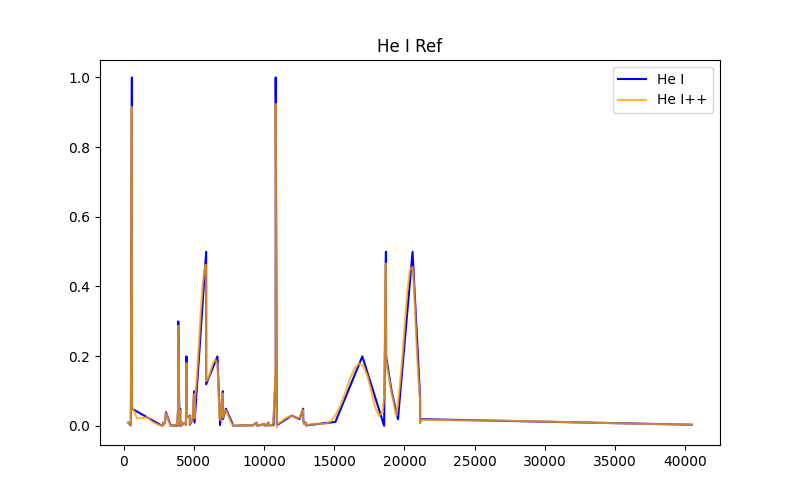
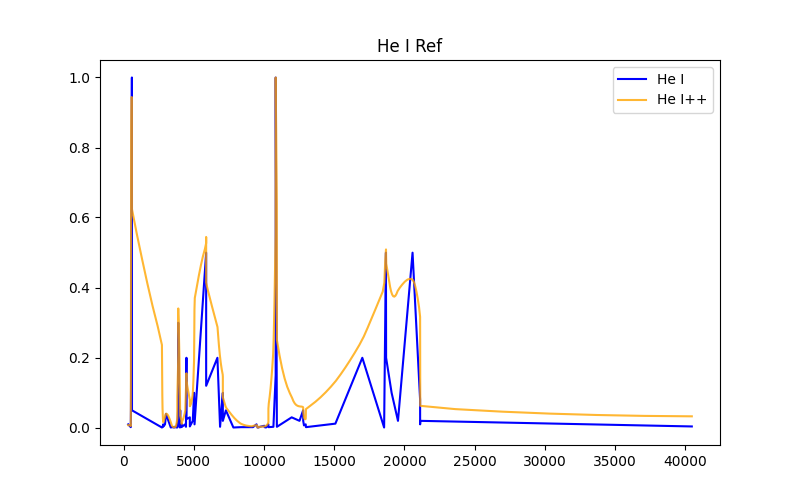
Tabajando en el particionado de lamparas

diff --git a/DTW.py b/DTW.py
@@ -1,79 +1,17 @@
 from NIST_Table_Interactor import NIST_Table_Interactor
 
-from astropy.io import fits
 import os
-from enum import Enum
+
 
 #from fastdtw import fastdtw
 #from scipy.spatial.distance import euclidean
 import matplotlib.pyplot as plt
 import numpy as np
-from scipy.ndimage import gaussian_filter1d
-from scipy.signal import savgol_filter
 
-def getfileData(filepath):    
-    hdul = fits.open(filepath) 
-    if('WOBJ' in filepath):
-        headers = hdul[0].header
-        data = hdul[0].data[0][0]
-    else:
-        headers = hdul[0].header
-        data = hdul[0].data
-    return data
+from utils import dp, getfileData, Processor
 
-def dp(dist_mat):
-    """
-    Find minimum-cost path through matrix `dist_mat` using dynamic programming.
+processor = Processor()
 
-    The cost of a path is defined as the sum of the matrix entries on that
-    path. See the following for details of the algorithm:
-
-    - http://en.wikipedia.org/wiki/Dynamic_time_warping
-    - https://www.ee.columbia.edu/~dpwe/resources/matlab/dtw/dp.m
-
-    The notation in the first reference was followed, while Dan Ellis's code
-    (second reference) was used to check for correctness. Returns a list of
-    path indices and the cost matrix.
-    """
-    N, M = dist_mat.shape
-    # Initialize the cost matrix
-    cost_mat = np.zeros((N + 1, M + 1))
-    for i in range(1, N + 1):
-        cost_mat[i, 0] = np.inf
-    for i in range(1, M + 1):
-        cost_mat[0, i] = np.inf
-    # Fill the cost matrix while keeping traceback information
-    traceback_mat = np.zeros((N, M))
-    for i in range(N):
-        for j in range(M):
-            penalty = [
-                cost_mat[i, j],      # match (0)
-                cost_mat[i, j + 1],  # insertion (1)
-                cost_mat[i + 1, j]]  # deletion (2)
-            i_penalty = np.argmin(penalty)
-            cost_mat[i + 1, j + 1] = dist_mat[i, j] + penalty[i_penalty]
-            traceback_mat[i, j] = i_penalty
-    # Traceback from bottom right
-    i = N - 1
-    j = M - 1
-    path = [(i, j)]
-    while i > 0 or j > 0:
-        tb_type = traceback_mat[i, j]
-        if tb_type == 0:
-            # Match
-            i = i - 1
-            j = j - 1
-        elif tb_type == 1:
-            # Insertion
-            i = i - 1
-        elif tb_type == 2:
-            # Deletion
-            j = j - 1
-        path.append((i, j))
-    # Strip infinity edges from cost_mat before returning
-    cost_mat = cost_mat[1:, 1:]
-    return (path[::-1], cost_mat)
-    
 # Datos del espectro a utilizar
 script_dir = os.path.dirname(os.path.abspath(__file__))
 filepath = os.path.join(script_dir, "EFBTCOMP31.fits")
@@ -86,6 +24,7 @@ y1=spectral_data
 min_y1 = np.min(y1)
 max_y1 = np.max(y1)
 nor_y1 = (y1 - min_y1) / (max_y1 - min_y1)
+#nor_y1 = processor.normalize_min_max(y1)
 
 # Datos de picos del NIST
 #csv_filename = ".\\Tabla(NIST)_Int_Long_Mat_Ref.csv"
@@ -98,34 +37,29 @@ filter = "He I"
 df = nisttr.get_dataframe(filter=filter)
 #df = nisttr.get_dataframe()
 
-class Processor:
-    class FuntionType(Enum):
-        LINEAL = "LINEAL"
-        GAUSSIAN = "GAUSSIAN"
-        SG = "SG"
-    def get_procesed(reference, target, tipe = [FuntionType.LINEAL]):
-        x2_equalized_lineal = np.interp(np.linspace(0, 1, len(x1)), np.linspace(0, 1, len(x2)), x2)
-
-
-SIGMA = 7
+SIGMA = 1
 x2 = df['Wavelength(Ams)'].tolist()
-x2_equalized_lineal = np.interp(np.linspace(0, 1, len(x1)), np.linspace(0, 1, len(x2)), x2)
 y2 = df['Intensity'].tolist()
-y2_equalized_lineal = np.interp(np.linspace(0, 1, len(y1)), np.linspace(0, 1, len(y2)), y2)
-y2_equalized_gaussian = gaussian_filter1d(y2_equalized_lineal, sigma=SIGMA)
-y2_equalized_SG = savgol_filter(y2_equalized_lineal, window_length=10, polyorder=4)
+x2_equalized_lineal = processor.equalized_and_smooth(reference=x1, target=x2, 
+                                            function=Processor.FuntionType.LINEAL)
+y2_equalized_lineal = processor.equalized_and_smooth(reference=y1, target=y2, 
+                                            function=Processor.FuntionType.LINEAL)
+y2_equalized_gaussian = processor.equalized_and_smooth(reference=y1, target=y2, 
+                                                       function=Processor.FuntionType.GAUSSIAN, 
+                                                       sigma=SIGMA)
+y2_equalized_SG = processor.equalized_and_smooth(reference=y1, target=y2, 
+                                                 function=Processor.FuntionType.SG, 
+                                                 window_length=10, polyorder=4)
 
-min_y2 = np.min(y2)
-max_y2 = np.max(y2)
-nor_y2 = (y2 - min_y2) / (max_y2 - min_y2)
-nor_y2_equalized_lineal = (y2_equalized_lineal - min_y2) / (max_y2 - min_y2)
-nor_y2_equalized_gaussian = (y2_equalized_gaussian - min_y2) / (max_y2 - min_y2)
-nor_y2_equalized_SG = (y2_equalized_SG - min_y2) / (max_y2 - min_y2)
+nor_y2, min_y2, max_y2 = processor.normalize_min_max(y2)
+nor_y2_equalized_lineal, _, _ = processor.normalize_min_max(y2_equalized_lineal)
+nor_y2_equalized_gaussian, _, _ = processor.normalize_min_max(y2_equalized_gaussian)
+nor_y2_equalized_SG, _, _ = processor.normalize_min_max(y2_equalized_SG)
 
 plt.figure(figsize=(8, 5))
 plt.plot(x2, nor_y2, color="blue", label=f"{filter}")
 #plt.plot(x2_equalized_lineal, nor_y2_equalized_lineal, color="orange", alpha=0.8, label=f"{filter}++")
-#plt.plot(x2_equalized_lineal, nor_y2_equalized_gaussian, color="orange", alpha=0.8, label=f"{filter}++")
+# plt.plot(x2_equalized_lineal, nor_y2_equalized_gaussian, color="orange", alpha=0.8, label=f"{filter}++")
 plt.plot(x2_equalized_lineal, nor_y2_equalized_SG, color="orange", alpha=0.8, label=f"{filter}++")
 plt.title(f'{filter} Ref')
 plt.legend()

diff --git a/DTWParticionadoLamp.py b/DTWParticionadoLamp.py
@@ -1,0 +1,121 @@
+from NIST_Table_Interactor import NIST_Table_Interactor
+
+import os
+
+import matplotlib.pyplot as plt
+import numpy as np
+
+from utils import dp, getfileData, Processor
+
+processor = Processor()
+
+# Datos del espectro a utilizar
+script_dir = os.path.dirname(os.path.abspath(__file__))
+filepath = os.path.join(script_dir, "EFBTCOMP31.fits")
+spectral_data = getfileData(filepath=filepath)
+x1=range(len(spectral_data))
+y1=spectral_data
+min_y1 = np.min(y1)
+max_y1 = np.max(y1)
+nor_y1 = (y1 - min_y1) / (max_y1 - min_y1)
+
+# Datos de picos del NIST
+csv_filename = os.path.join(script_dir, "Tabla(NIST)_Int_Long_Mat_Ref.csv")
+nisttr = NIST_Table_Interactor(csv_filename=csv_filename)
+filter = "He I"
+# filter = "Ar II"
+# filter = "Ne II"
+# filter = "Rb II"
+df = nisttr.get_dataframe(filter=filter)
+
+#///////////////////////////////////////
+#cant_subarr = 6
+# subarr_size = 100 #len(x1) // cant_subarr
+# x1_arr = [x1[i:i + subarr_size] for i in range(0, len(x1), subarr_size)]
+# y1_arr = [y1[rang] for rang in x1_arr]
+# nor_y1_arr = [nor_y1[rang] for rang in x1_arr]
+# nor_y1_min = np.min(nor_y1)
+# nor_y1_max = np.max(nor_y1)
+
+#///////////////////////////////////////
+batch = 25
+x2 = df['Wavelength(Ams)'].tolist()
+x2_arr = [x2[i:i + batch] for i in range(0, len(x2), batch)]
+for i in range(0, len(x2_arr)):
+    x2_arr[i] = processor.equalized_and_smooth(reference=x1, target=x2_arr[i], 
+                                    function=Processor.FuntionType.LINEAL)
+# x2_equalized = processor.equalized_and_smooth(reference=x1, target=x2, 
+#                                     function=Processor.FuntionType.LINEAL)
+# x2_arr = [x2_equalized[i:i + batch] for i in range(0, len(x2_equalized), batch)]
+y2 = df['Intensity'].tolist()
+#y2_equalized = processor.equalized_and_smooth(reference=y1, target=y2, 
+#                                    function=Processor.FuntionType.SG, 
+#                                    window_length=10, polyorder=4)
+#nor_y2, _, _ = processor.normalize_min_max(y2_equalized)
+nor_y2_arr = []
+for i in range(0, len(x2_arr)):
+    x = x2_arr[i]
+    y = y2[(i*batch):(i*batch+batch)]
+    y_equalized = processor.equalized_and_smooth(reference=y1, target=y, 
+                                    function=Processor.FuntionType.SG, 
+                                    window_length=10, polyorder=4)
+    nor_y, _, _ = processor.normalize_min_max(y_equalized)
+    #nor_y, _, _ = processor.normalize_min_max(y_equalized, max=np.max(y2), min=np.min(y2))
+    nor_y2_arr.append(nor_y)
+    
+num_rows = 2
+num_cols = 2
+fig, axs = plt.subplots(num_rows, num_cols, figsize=(8, 5), 
+                        subplot_kw={'yticks': []})
+fig.suptitle(f"{filter} Ref")
+for i in range(num_rows):
+    for j in range(num_cols):
+        axs[i, j].plot(x2_arr[i*num_cols+j], nor_y2_arr[i*num_cols+j], 
+                       color="orange", alpha=1, label=f"Part {i}")    
+        axs[i, j].set_ylim(0, 1)
+        if j==0:
+            axs[i, j].set_yticks(np.linspace(0, 1, 3))
+        if(i==2):
+            axs[i, j].set_xlabel('\u03BB')
+plt.tight_layout()
+plt.savefig("partionsOfLamp_graph.png")
+plt.show()
+
+fig, axs = plt.subplots(num_rows, num_cols, figsize=(8, 5), 
+                        subplot_kw={'yticks': []})
+fig.suptitle(f"{filter} Ref")
+for row in range(num_rows):
+    for col in range(num_cols):
+        x = x2_arr[row*num_cols+col]
+        y = nor_y2_arr[row*num_cols+col]
+        
+        N = nor_y1.shape[0]
+        M = len(y)
+        dist_mat = np.zeros((N, M))
+        for i in range(N):
+            for j in range(M):
+                dist_mat[i, j] = abs(nor_y1[i] - y[j])
+
+        # DTW
+        path, cost_mat = dp(dist_mat)
+        
+        new_x1 = [x[tupla[1]] for tupla in path]
+        new_nor_y1 = [nor_y1[tupla[0]] for tupla in path]
+        
+        axs[row, col].plot(new_x1, new_nor_y1, color="blue", 
+                                     alpha=1, label=f"Espectro")
+        axs[row, col].plot(x, y, color="orange", 
+                                     alpha=0.6, label=f"{filter} calibrado")    
+        axs[row, col].set_ylim(0, 1)
+        
+        if j==0:
+            axs[i, j].set_yticks(np.linspace(0, 1, 3))
+        if(i==num_rows):
+            axs[i, j].set_xlabel('\u03BB')
+
+        axs[row, col].set_title("Normalized alignment cost: {:.4f}".format(cost_mat[N - 1, M - 1]/(N + M)))
+
+fig.suptitle(f"Calibrado")
+plt.tight_layout()
+plt.savefig("partionsOfLampCalib_graph.png")
+plt.show()

diff --git a/utils.py b/utils.py
@@ -1,0 +1,96 @@
+from enum import Enum
+from astropy.io import fits
+from scipy.ndimage import gaussian_filter1d
+from scipy.signal import savgol_filter
+import numpy as np
+
+def getfileData(filepath):    
+    hdul = fits.open(filepath) 
+    if('WOBJ' in filepath):
+        headers = hdul[0].header
+        data = hdul[0].data[0][0]
+    else:
+        headers = hdul[0].header
+        data = hdul[0].data
+    return data
+
+def dp(dist_mat):
+    """
+    Find minimum-cost path through matrix `dist_mat` using dynamic programming.
+
+    The cost of a path is defined as the sum of the matrix entries on that
+    path. See the following for details of the algorithm:
+
+    - http://en.wikipedia.org/wiki/Dynamic_time_warping
+    - https://www.ee.columbia.edu/~dpwe/resources/matlab/dtw/dp.m
+
+    The notation in the first reference was followed, while Dan Ellis's code
+    (second reference) was used to check for correctness. Returns a list of
+    path indices and the cost matrix.
+    """
+    N, M = dist_mat.shape
+    # Initialize the cost matrix
+    cost_mat = np.zeros((N + 1, M + 1))
+    for i in range(1, N + 1):
+        cost_mat[i, 0] = np.inf
+    for i in range(1, M + 1):
+        cost_mat[0, i] = np.inf
+    # Fill the cost matrix while keeping traceback information
+    traceback_mat = np.zeros((N, M))
+    for i in range(N):
+        for j in range(M):
+            penalty = [
+                cost_mat[i, j],      # match (0)
+                cost_mat[i, j + 1],  # insertion (1)
+                cost_mat[i + 1, j]]  # deletion (2)
+            i_penalty = np.argmin(penalty)
+            cost_mat[i + 1, j + 1] = dist_mat[i, j] + penalty[i_penalty]
+            traceback_mat[i, j] = i_penalty
+    # Traceback from bottom right
+    i = N - 1
+    j = M - 1
+    path = [(i, j)]
+    while i > 0 or j > 0:
+        tb_type = traceback_mat[i, j]
+        if tb_type == 0:
+            # Match
+            i = i - 1
+            j = j - 1
+        elif tb_type == 1:
+            # Insertion
+            i = i - 1
+        elif tb_type == 2:
+            # Deletion
+            j = j - 1
+        path.append((i, j))
+    # Strip infinity edges from cost_mat before returning
+    cost_mat = cost_mat[1:, 1:]
+    return (path[::-1], cost_mat)
+
+class Processor:
+    class FuntionType(Enum):
+        LINEAL = "LINEAL"
+        GAUSSIAN = "GAUSSIAN"
+        SG = "SG"
+    def equalized_and_smooth(self, reference, target, function = FuntionType.LINEAL, sigma:float = None, window_length=10, polyorder=4):
+        target_equalized_lineal = np.interp(np.linspace(0, 1, len(reference)), 
+                                            np.linspace(0, 1, len(target)), target)
+        if(function is self.FuntionType.LINEAL):
+            return target_equalized_lineal
+        elif(function is self.FuntionType.GAUSSIAN):
+            target_equalized_gaussian = gaussian_filter1d(target_equalized_lineal, sigma=sigma)
+            return target_equalized_gaussian
+        elif(function is self.FuntionType.SG):
+            target_equalized_SG = savgol_filter(target_equalized_lineal, 
+                                                window_length=window_length, 
+                                                polyorder=polyorder)
+            return target_equalized_SG
+        else:
+            return None
+    def normalize_min_max(self, target, min=None, max=None):
+        if(not min):
+            min = np.min(target)
+        if(not max):
+            max = np.max(target)
+        nor_target = (target - min) / (max - min)
+        return nor_target, min, max
